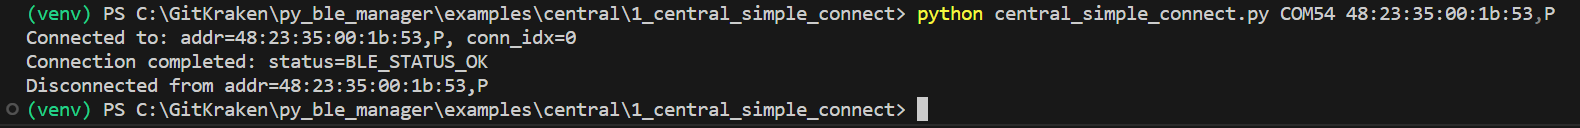
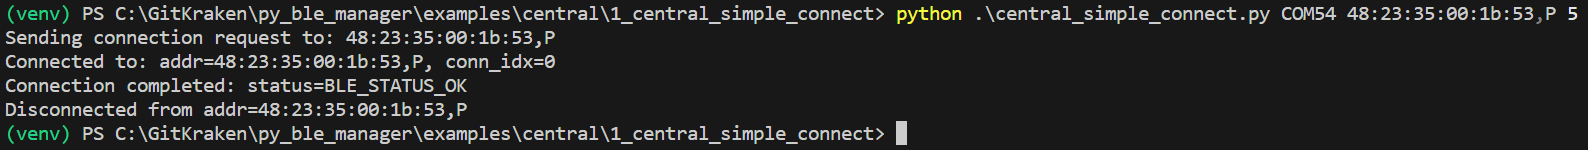
Add connection timeout to example

Changed region(s): [[0.0, 0.0312, 1.0, 0.9688]]

diff --git a/examples/central/1_central_simple_connect/central_simple_connect.py b/examples/central/1_central_simple_connect/central_simple_connect.py
@@ -1,10 +1,16 @@
 import argparse
 import sys
 import time
+import threading
 import py_ble_manager as ble
 
 
-def main(com_port, peripheral_addr):
+def connection_timeout_cb(central: ble.BleCentral, timeout_s: int):
+    print(f"Peripheral not found in {timeout_s} seconds. Cancelling connection.")
+    central.connect_cancel()
+
+
+def main(com_port, peripheral_addr_str: str, timeout_s: int):
     central = ble.BleCentral(com_port)
 
     # Initialize the Pytohn BLE Framework
@@ -14,11 +20,16 @@ def main(com_port, peripheral_addr):
     central.start()
 
     # Convert the address string to a BdAddress
-    peripheral_addr: ble.BdAddress = ble.BleUtils.str_to_bd_addr(peripheral_addr)
+    peripheral_addr: ble.BdAddress = ble.BleUtils.str_to_bd_addr(peripheral_addr_str)
     # Set the connection parameters
     connection_params = ble.GapConnParams(interval_min_ms=50, interval_max_ms=70, slave_latency=0, sup_timeout_ms=420)
     # Initiate a connection
+    print(f"Sending connection request to: {peripheral_addr_str}")
     central.connect(peripheral_addr, connection_params)
+
+    # Create a timer to cancel the connection if the peripheral is not found
+    connection_timer = threading.Timer(timeout_s, connection_timeout_cb, [central, timeout_s])
+    connection_timer.start()
 
     conn_idx = 0
     while True:
@@ -33,14 +44,24 @@ def main(com_port, peripheral_addr):
                     conn_idx = evt.conn_idx
                     print(f"Connected to: addr={ble.BleUtils.bd_addr_to_str(evt.peer_address)}, conn_idx={evt.conn_idx}")
 
-                # Connection has completed. Print out the status, wait 3 seconds, and initiate a disconnect
+                # Connection has completed.
                 case ble.BLE_EVT_GAP.BLE_EVT_GAP_CONNECTION_COMPLETED:
                     evt: ble.BleEventGapConnectionCompleted
+                    # Print out the status
                     print(f"Connection completed: status={evt.status.name}")
 
-                    # Sleep for 3 seconds before disconnecting
-                    time.sleep(3)
-                    central.disconnect(conn_idx=conn_idx)
+                    if evt.status == ble.BLE_ERROR.BLE_STATUS_OK:
+                        # Successful connection
+
+                        # Cancel the connection timeout timer
+                        connection_timer.cancel()
+
+                        # Sleep for 3 seconds before disconnecting
+                        time.sleep(3)
+                        central.disconnect(conn_idx=conn_idx)
+                    else:
+                        # The connection was cancelled, exit
+                        sys.exit()
 
                 # Disconnected from peripheral
                 case ble.BLE_EVT_GAP.BLE_EVT_GAP_DISCONNECTED:
@@ -55,11 +76,13 @@ if __name__ == "__main__":
 
     parser.add_argument("com_port", type=str, help='COM port for your development kit')
 
-    parser.add_argument("peripheral_addr", help='Addresss of peripheral, e.g. 48:23:35:00:1b:53,P')
+    parser.add_argument("peripheral_addr", type=str, help='Addresss of peripheral, e.g. 48:23:35:00:1b:53,P')
+
+    parser.add_argument("timeout_s", type=int, help='Time (in seconds) to wait for a connection to be established before cancelling the connection')
 
     args = parser.parse_args()
 
     try:
-        main(args.com_port, args.peripheral_addr)
+        main(args.com_port, args.peripheral_addr, args.timeout_s)
     except KeyboardInterrupt:
         print("Exiting")

diff --git a/examples/central/1_central_simple_connect/README.md b/examples/central/1_central_simple_connect/README.md
@@ -4,20 +4,26 @@ This example demonstrates creating/initializing a BleCentral object, connecting 
 
 You can run it with:
 
-`python central_simple_connect.py <com_port> <peripheral_addr>`
+`python central_simple_connect.py <com_port> <peripheral_addr> <timeout_s>`
 
-where `<com_port>` is the COM port associated with your development kit. Note, in the case of the Pro development kit there will be two COM ports associated with your development kit. You should use the lower of the two.
+`<com_port>` is the COM port associated with your development kit. Note, in the case of the Pro development kit there will be two COM ports associated with your development kit. You should use the lower of the two.
 
-And `<peripheral_addr>` is the address of the peripheral you want to connect to. \
+`<peripheral_addr>` is the address of the peripheral you want to connect to. \
 The address should be of the form 48:23:35:00:1b:53,P: \
 &emsp; where 48:23:35:00:1b:53 is the BLE device address and last letter indicates the address type: \
 &emsp;&emsp; P indicates a public address \
 &emsp;&emsp; R indicates a random address
 
+`<timeout_s>` is the length of time (in seconds) to wait for a connection to be established before cancelling the connection.
+
 Once running, you should see messages indicating you have connected to your peripheral:
 
 ![connection](assets/connection.png)
 
-After about 3 seconds, you should see a message indicating you have disconnected from your peripheral and the application will exit:
+About 3 seconds after a successful connection, you should see a message indicating you have disconnected from your peripheral and the application will exit:
 
 ![disconnection](assets/disconnection.png)
+
+If a connection is not established to the peripheral before the timeout, the connection will be cancelled and the application will exit:
+
+![timeout](assets/timeout.png)
